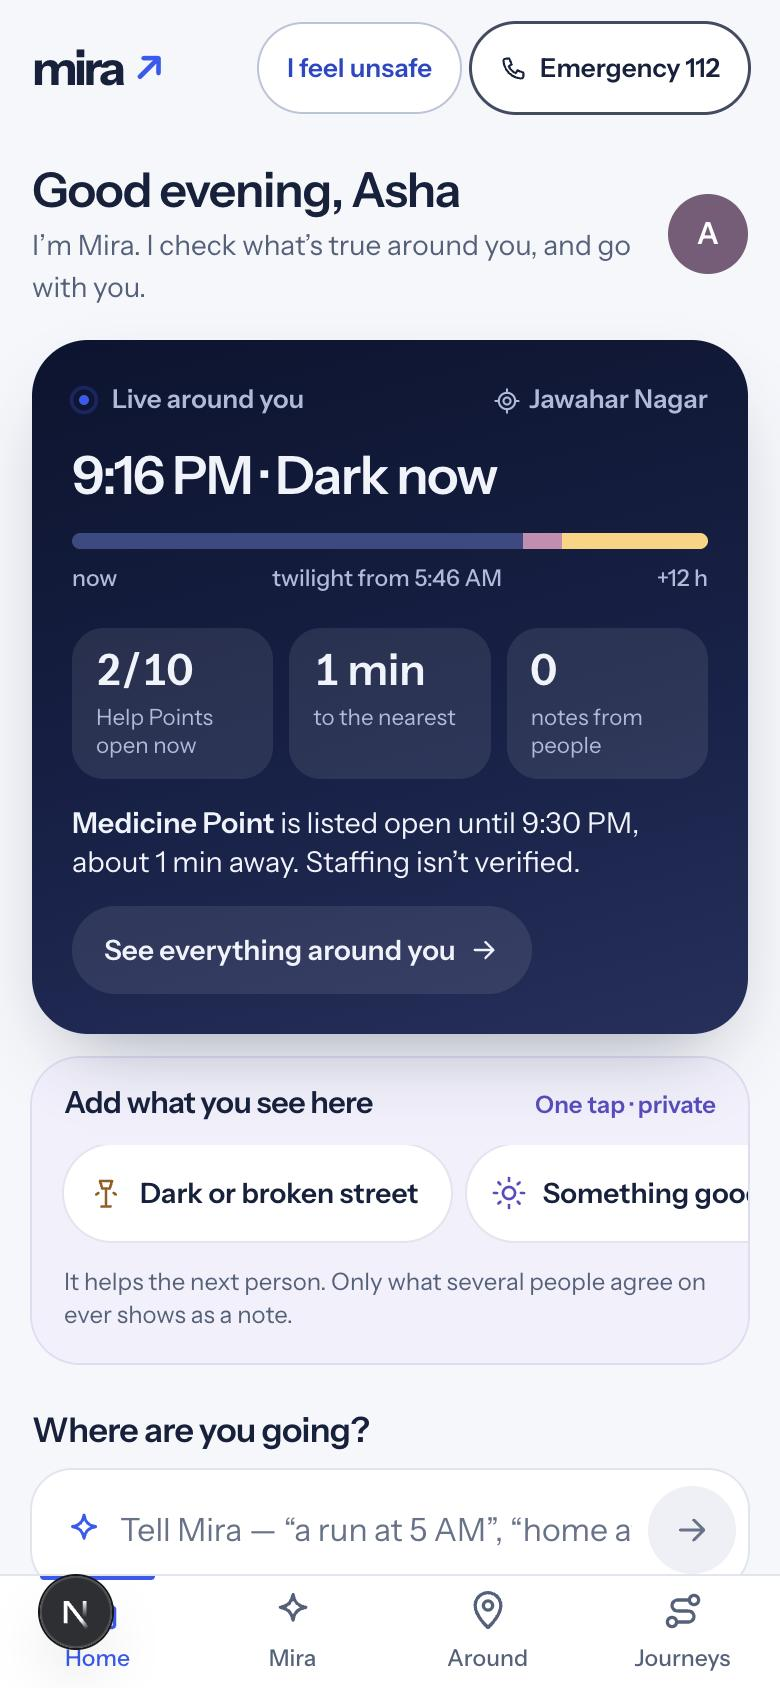
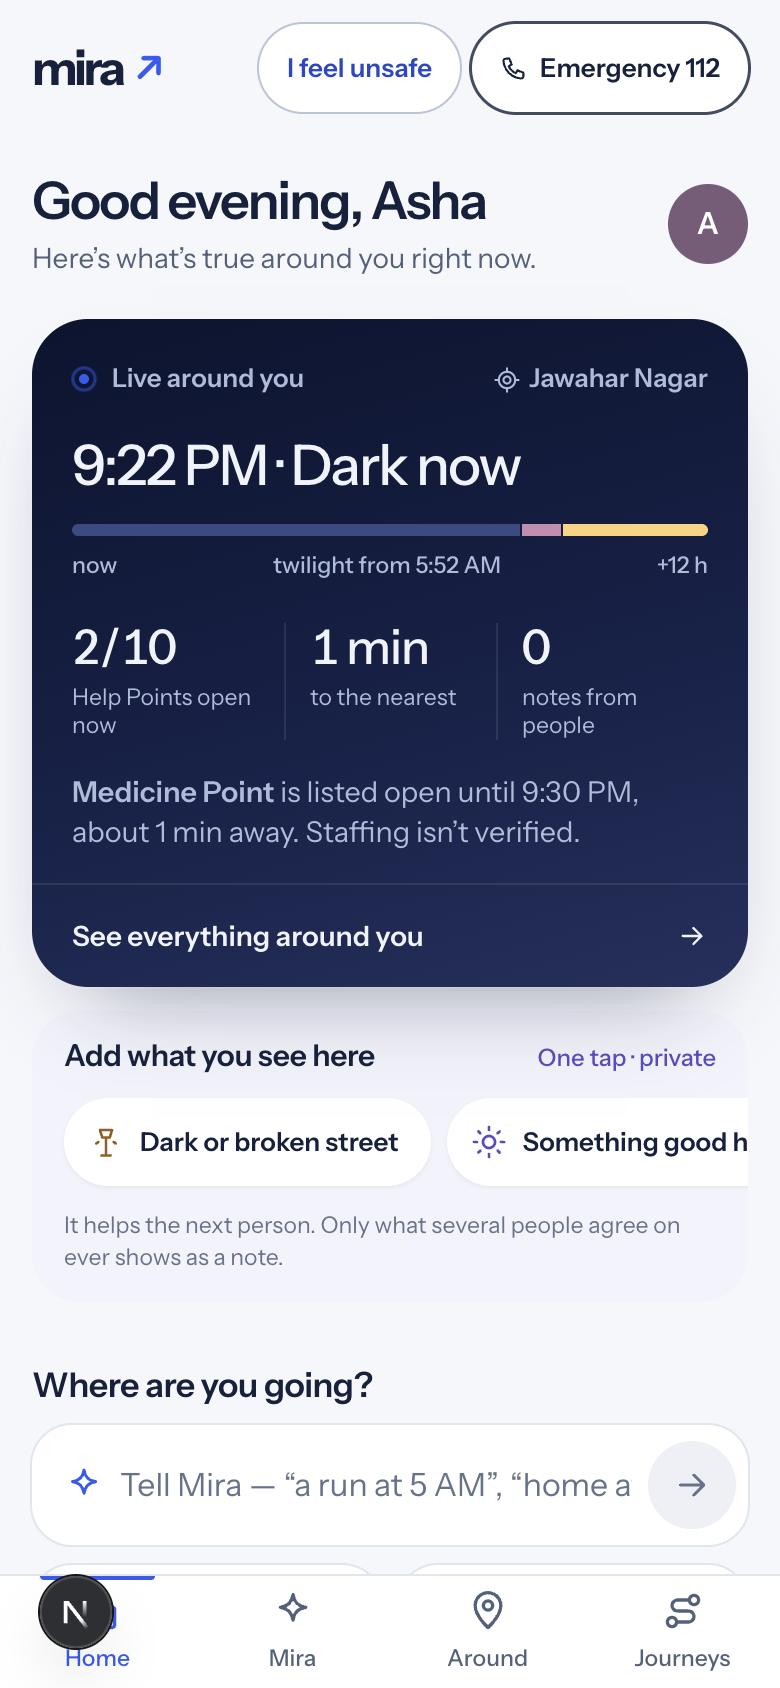
ux(home): premium polish — hairline stats, quieter surfaces, calmer type

Changed region(s): [[0.0308, 0.0924, 0.9846, 0.9242]]

diff --git a/src/app/(app)/HomeNow.tsx b/src/app/(app)/HomeNow.tsx
@@ -111,7 +111,7 @@ export function HomeNow({ user, places, savedPlan, emailAlerts, journeyTo }: { u
     { label: nearNow?.notes === 1 ? "note from people" : "notes from people", value: String(nearNow?.notes ?? 0), state: !nearNow || nearNow.notes === null ? "loading" : nearNow.notesFailed ? "failed" : "ok" },
   ];
   const line = nearestOpen ? (
-    <><strong className="font-semibold">{nearestOpen.name}</strong> is {hoursWords(hoursState(nearestOpen, localNow ?? undefined, 0, clock?.getTime()))}, about {nearestOpen.minutes} min away. Staffing isn’t verified.</>
+    <><strong className="font-semibold text-[color:var(--sky-ink)]">{nearestOpen.name}</strong> is {hoursWords(hoursState(nearestOpen, localNow ?? undefined, 0, clock?.getTime()))}, about {nearestOpen.minutes} min away. Staffing isn’t verified.</>
   ) : nearNow?.help && !nearNow.help.failed ? (
     helpTotal ? <>None of the {helpTotal} Help Points near you is listed open right now. Emergency is always one tap away.</> : <>No Help Points found within a short walk in the sources checked — that doesn’t mean none exist.</>
   ) : null;
@@ -153,11 +153,11 @@ export function HomeNow({ user, places, savedPlan, emailAlerts, journeyTo }: { u
       <div className="m-screen-inner">
         <RootHeader emailAlerts={emailAlerts} leading={<Link href="/" className="mira-wordmark" aria-label="Mira home">mira<span aria-hidden>↗</span></Link>} />
 
-        <div className="mt-6 flex items-center justify-between gap-3">
+        <div className="mt-7 flex items-center justify-between gap-3">
           <div className="min-w-0">
-            <h1 className="text-[1.5rem] font-semibold leading-tight tracking-[-0.025em]">{greeting ? `${greeting.hello}${firstName ? `, ${firstName}` : ""}` : "Hello"}</h1>
+            <h1 className="text-[1.625rem] font-semibold leading-tight tracking-[-0.035em]">{greeting ? `${greeting.hello}${firstName ? `, ${firstName}` : ""}` : "Hello"}</h1>
             <p className="mt-0.5 text-[0.875rem] text-ink-muted">
-              {journeyTo !== null ? `You’re on your way${journeyTo ? ` to ${journeyTo}` : ""} — I’m with you until you check in.` : cold ? "I’m Mira. I check what’s true around you, and go with you." : "Here’s what I know around you."}
+              {journeyTo !== null ? `You’re on your way${journeyTo ? ` to ${journeyTo}` : ""} — I’m with you until you check in.` : cold ? "Here’s what’s true around you right now." : "Here’s what I know around you."}
             </p>
           </div>
           {user ? (
@@ -168,7 +168,7 @@ export function HomeNow({ user, places, savedPlan, emailAlerts, journeyTo }: { u
         </div>
 
         {/* 1. Mira knows: what's true around you, right now. */}
-        <div className="mt-4">
+        <div className="mt-5">
           <LiveNowCard now={clock} point={point ? { lat: point.lat, lon: point.lon } : null} area={point ? loc.area : null} stats={stats} line={line} locating={loc.status === "asking"} locationState={loc.status} onLocate={() => { rememberLocationChoice(true); void loc.request(); }} />
         </div>
 
@@ -178,8 +178,8 @@ export function HomeNow({ user, places, savedPlan, emailAlerts, journeyTo }: { u
         </div>
 
         {/* 3. Mira goes with you: where are you going? */}
-        <section aria-labelledby="going-h" className="mt-6">
-          <h2 id="going-h" className="text-[1.0625rem] font-semibold">Where are you going?</h2>
+        <section aria-labelledby="going-h" className="mt-8">
+          <h2 id="going-h" className="text-[1.0625rem] font-semibold tracking-[-0.015em]">Where are you going?</h2>
           <form onSubmit={(e) => { e.preventDefault(); submitAsk(ask); }} className="m-card mt-2.5 flex items-center gap-2 rounded-[1.5rem] p-1.5 pl-4 focus-within:ring-2 focus-within:ring-accent">
             <span aria-hidden><Icon name="sparkle" className="size-5 text-accent" /></span>
             <label htmlFor="home-ask" className="sr-only">Tell Mira what you’re about to do</label>
@@ -190,8 +190,8 @@ export function HomeNow({ user, places, savedPlan, emailAlerts, journeyTo }: { u
           </form>
           <div className="mt-2.5 grid grid-cols-2 gap-2">
             {SITUATIONS.map((s) => (
-              <Link key={s.href} href={s.href} className="m-card m-press flex min-h-12 items-center gap-2.5 px-3.5 text-[0.9rem] font-semibold">
-                <Icon name={s.icon} className="size-5 text-accent" />{s.label}
+              <Link key={s.href} href={s.href} className="m-card m-press flex min-h-12 items-center gap-2.5 whitespace-nowrap px-3.5 text-[0.875rem] font-semibold">
+                <Icon name={s.icon} className="size-[18px] text-accent" />{s.label}
               </Link>
             ))}
           </div>
@@ -218,7 +218,7 @@ export function HomeNow({ user, places, savedPlan, emailAlerts, journeyTo }: { u
           </section>
         ) : null}
 
-        <p className="mt-6 px-1 text-xs leading-relaxed text-ink-subtle">Mira never scores a place. Every fact shows where it came from, and what Mira can’t see is said too.</p>
+        <p className="mt-8 px-1 text-center text-[0.72rem] leading-relaxed text-ink-subtle">Mira never scores a place. Every fact shows where it came from, and what Mira can’t see is said too.</p>
       </div>
       <SignInSheet open={signIn} onClose={() => setSignIn(false)} reason="Sign in to save plans and go with Mira" />
     </div>

diff --git a/src/components/mira/LiveNow.tsx b/src/components/mira/LiveNow.tsx
@@ -51,7 +51,7 @@ export function LiveNowCard({ now, point, area, stats, line, onLocate, locating,
   const segments = now && point && Math.abs(point.lat) <= 72 ? daylightSegments(now, point) : null;
   const firstChange = segments && segments.length > 1 ? segments[1] : null;
   return (
-    <section aria-label="Right now, around you" className="relative overflow-hidden rounded-[1.75rem] p-5 shadow-[0_18px_40px_-18px_rgb(20_33_61/.45)]" style={{ background: sky.bg, color: sky.ink }}>
+    <section aria-label="Right now, around you" className="relative overflow-hidden rounded-[1.75rem] p-5 pb-0 shadow-[0_24px_48px_-28px_rgb(20_33_61/.55)] ring-1 ring-white/10" style={{ background: sky.bg, color: sky.ink, ["--sky-ink" as string]: sky.ink }}>
       <div className="flex items-center justify-between gap-3">
         <p className="inline-flex items-center gap-2 text-[0.8125rem] font-semibold" style={{ color: sky.muted }}>
           <MiraPulse size={12} state={point ? "with-you" : "observing"} ambient={Boolean(point)} />
@@ -62,12 +62,12 @@ export function LiveNowCard({ now, point, area, stats, line, onLocate, locating,
 
       {point && now ? (
         <>
-          <p className="mt-3 text-[1.65rem] font-semibold leading-tight tracking-[-0.03em]">
+          <p className="mt-4 text-[1.75rem] font-medium leading-tight tracking-[-0.035em]">
             {clockIn(now)} · {state === "dark" ? "Dark now" : state === "uncertain" ? "Twilight" : "Daylight"}
           </p>
           {segments ? (
             <div className="mt-3" aria-label={firstChange ? `${firstChange.state === "dark" ? "Dark" : firstChange.state === "daylight" ? "Daylight" : "Twilight"} from about ${clockIn(firstChange.start)}` : "No change in the next 12 hours"}>
-              <div className="flex h-2 overflow-hidden rounded-full" aria-hidden>
+              <div className="flex h-1.5 gap-px overflow-hidden rounded-full" aria-hidden>
                 {segments.map((s, i) => <span key={i} style={{ width: `${s.share * 100}%`, background: SEG[s.state] }} />)}
               </div>
               <div className="mt-1.5 flex justify-between text-[0.72rem] font-medium" style={{ color: sky.muted }}>
@@ -77,17 +77,17 @@ export function LiveNowCard({ now, point, area, stats, line, onLocate, locating,
               </div>
             </div>
           ) : null}
-          <dl className="mt-4 grid grid-cols-3 gap-2">
+          <dl className="mt-5 grid grid-cols-3">
             {stats.map((s) => (
-              <div key={s.label} className="rounded-2xl px-3 py-2.5" style={{ background: sky.chip }}>
+              <div key={s.label} className="border-l px-3 first:border-l-0 first:pl-0" style={{ borderColor: sky.chip }}>
                 <dt className="sr-only">{s.label}</dt>
-                <dd className={cx("text-[1.35rem] font-semibold leading-none tabular-nums", s.state === "loading" && "animate-pulse")}>{s.state === "loading" ? "…" : s.state === "failed" ? "—" : s.value}</dd>
-                <dd className="mt-1.5 text-[0.7rem] leading-tight" style={{ color: sky.muted }}>{s.state === "failed" ? `${s.label}: couldn’t check` : s.label}</dd>
+                <dd className={cx("text-[1.5rem] font-medium leading-none tracking-[-0.02em] tabular-nums", s.state === "loading" && "animate-pulse")}>{s.state === "loading" ? "…" : s.state === "failed" ? "—" : s.value}</dd>
+                <dd className="mt-1.5 text-[0.72rem] leading-tight" style={{ color: sky.muted }}>{s.state === "failed" ? `${s.label}: couldn’t check` : s.label}</dd>
               </div>
             ))}
           </dl>
-          {line ? <p className="mt-3 text-[0.9rem] leading-snug">{line}</p> : null}
-          <Link href="/around" className="mt-3 inline-flex min-h-11 items-center gap-1.5 rounded-full px-4 text-sm font-semibold" style={{ background: sky.chip }}>
+          {line ? <p className="mt-4 text-[0.9rem] leading-snug" style={{ color: sky.muted }}>{line}</p> : null}
+          <Link href="/around" className="-mx-5 mt-4 flex min-h-13 items-center justify-between border-t px-5 text-sm font-semibold" style={{ borderColor: sky.chip }}>
             See everything around you <Icon name="arrow" className="size-4" />
           </Link>
         </>
@@ -97,7 +97,7 @@ export function LiveNowCard({ now, point, area, stats, line, onLocate, locating,
           <p className="mt-2 text-sm" style={{ color: sky.muted }}>
             {locationState === "denied" ? "Location is off for Mira. Allow it in your browser’s site settings — or check any place by name." : locationState === "unavailable" ? "Couldn’t find you just now. Try again outdoors, or check a place by name." : "Your location is used on this phone for this view only. Mira never keeps a history of where you’ve been."}
           </p>
-          <div className="mt-4 flex flex-wrap gap-2">
+          <div className="mt-4 flex flex-wrap gap-2 pb-5">
             <button type="button" onClick={onLocate} className="inline-flex min-h-11 items-center gap-2 rounded-full bg-white px-4 text-sm font-semibold text-[#14213d]"><Icon name="locate" className="size-4" />{locating ? "Finding you…" : "Use my location"}</button>
             <Link href="/around?check=1" className="inline-flex min-h-11 items-center gap-2 rounded-full px-4 text-sm font-semibold" style={{ background: sky.chip }}><Icon name="search" className="size-4" />Check a place</Link>
           </div>

diff --git a/src/components/mira/HelpNext.tsx b/src/components/mira/HelpNext.tsx
@@ -41,10 +41,10 @@ export function HelpNextCard({ check, impactLine, signedIn, country }: { check: 
   const report = (c: Category) => router.push(`/report?c=${c}&from=home`);
 
   return (
-    <section aria-labelledby="help-next-h" className="rounded-[1.5rem] bg-people-soft/70 px-4 pb-4 pt-3.5 ring-1 ring-people/15">
+    <section aria-labelledby="help-next-h" className="rounded-[1.5rem] bg-people-soft/45 px-4 pb-3.5 pt-3.5">
       <div className="flex items-baseline justify-between gap-2">
-        <h2 id="help-next-h" className="text-[0.95rem] font-semibold">Add what you see here</h2>
-        <p className="shrink-0 text-xs font-semibold text-people">One tap · private</p>
+        <h2 id="help-next-h" className="text-[0.9375rem] font-semibold tracking-[-0.01em]">Add what you see here</h2>
+        <p className="shrink-0 text-xs font-medium text-people">One tap · private</p>
       </div>
 
       {check ? (
@@ -65,13 +65,13 @@ export function HelpNextCard({ check, impactLine, signedIn, country }: { check: 
 
       <div className="m-scroll-x -mx-4 mt-3 px-4 pb-0.5">
         {QUICK.map((q) => (
-          <button key={q.c} type="button" onClick={() => report(q.c)} className="m-press flex min-h-12 shrink-0 items-center gap-2 rounded-full bg-surface py-2 pl-3 pr-4 text-[0.875rem] font-semibold ring-1 ring-line">
+          <button key={q.c} type="button" onClick={() => report(q.c)} className="m-press flex min-h-11 shrink-0 items-center gap-2 rounded-full bg-surface py-2 pl-3 pr-4 text-[0.8125rem] font-semibold shadow-[0_1px_2px_rgb(20_33_61/.06)]">
             <Icon name={q.icon} className={cx("size-[18px]", q.tone === "dusk" ? "text-dusk" : q.tone === "people" ? "text-people" : "text-ink-muted")} />
             {q.label}
           </button>
         ))}
       </div>
-      <p className="mt-2.5 text-xs leading-snug text-ink-muted">
+      <p className="mt-2.5 text-[0.72rem] leading-snug text-ink-subtle">
         {impactLine ? <><strong className="font-semibold text-ink">{impactLine}</strong> </> : null}
         {signedIn ? "It helps the next person. Only what several people agree on ever shows as a note." : "No account needed. It helps the next person, and is never shown as-is."}
       </p>
